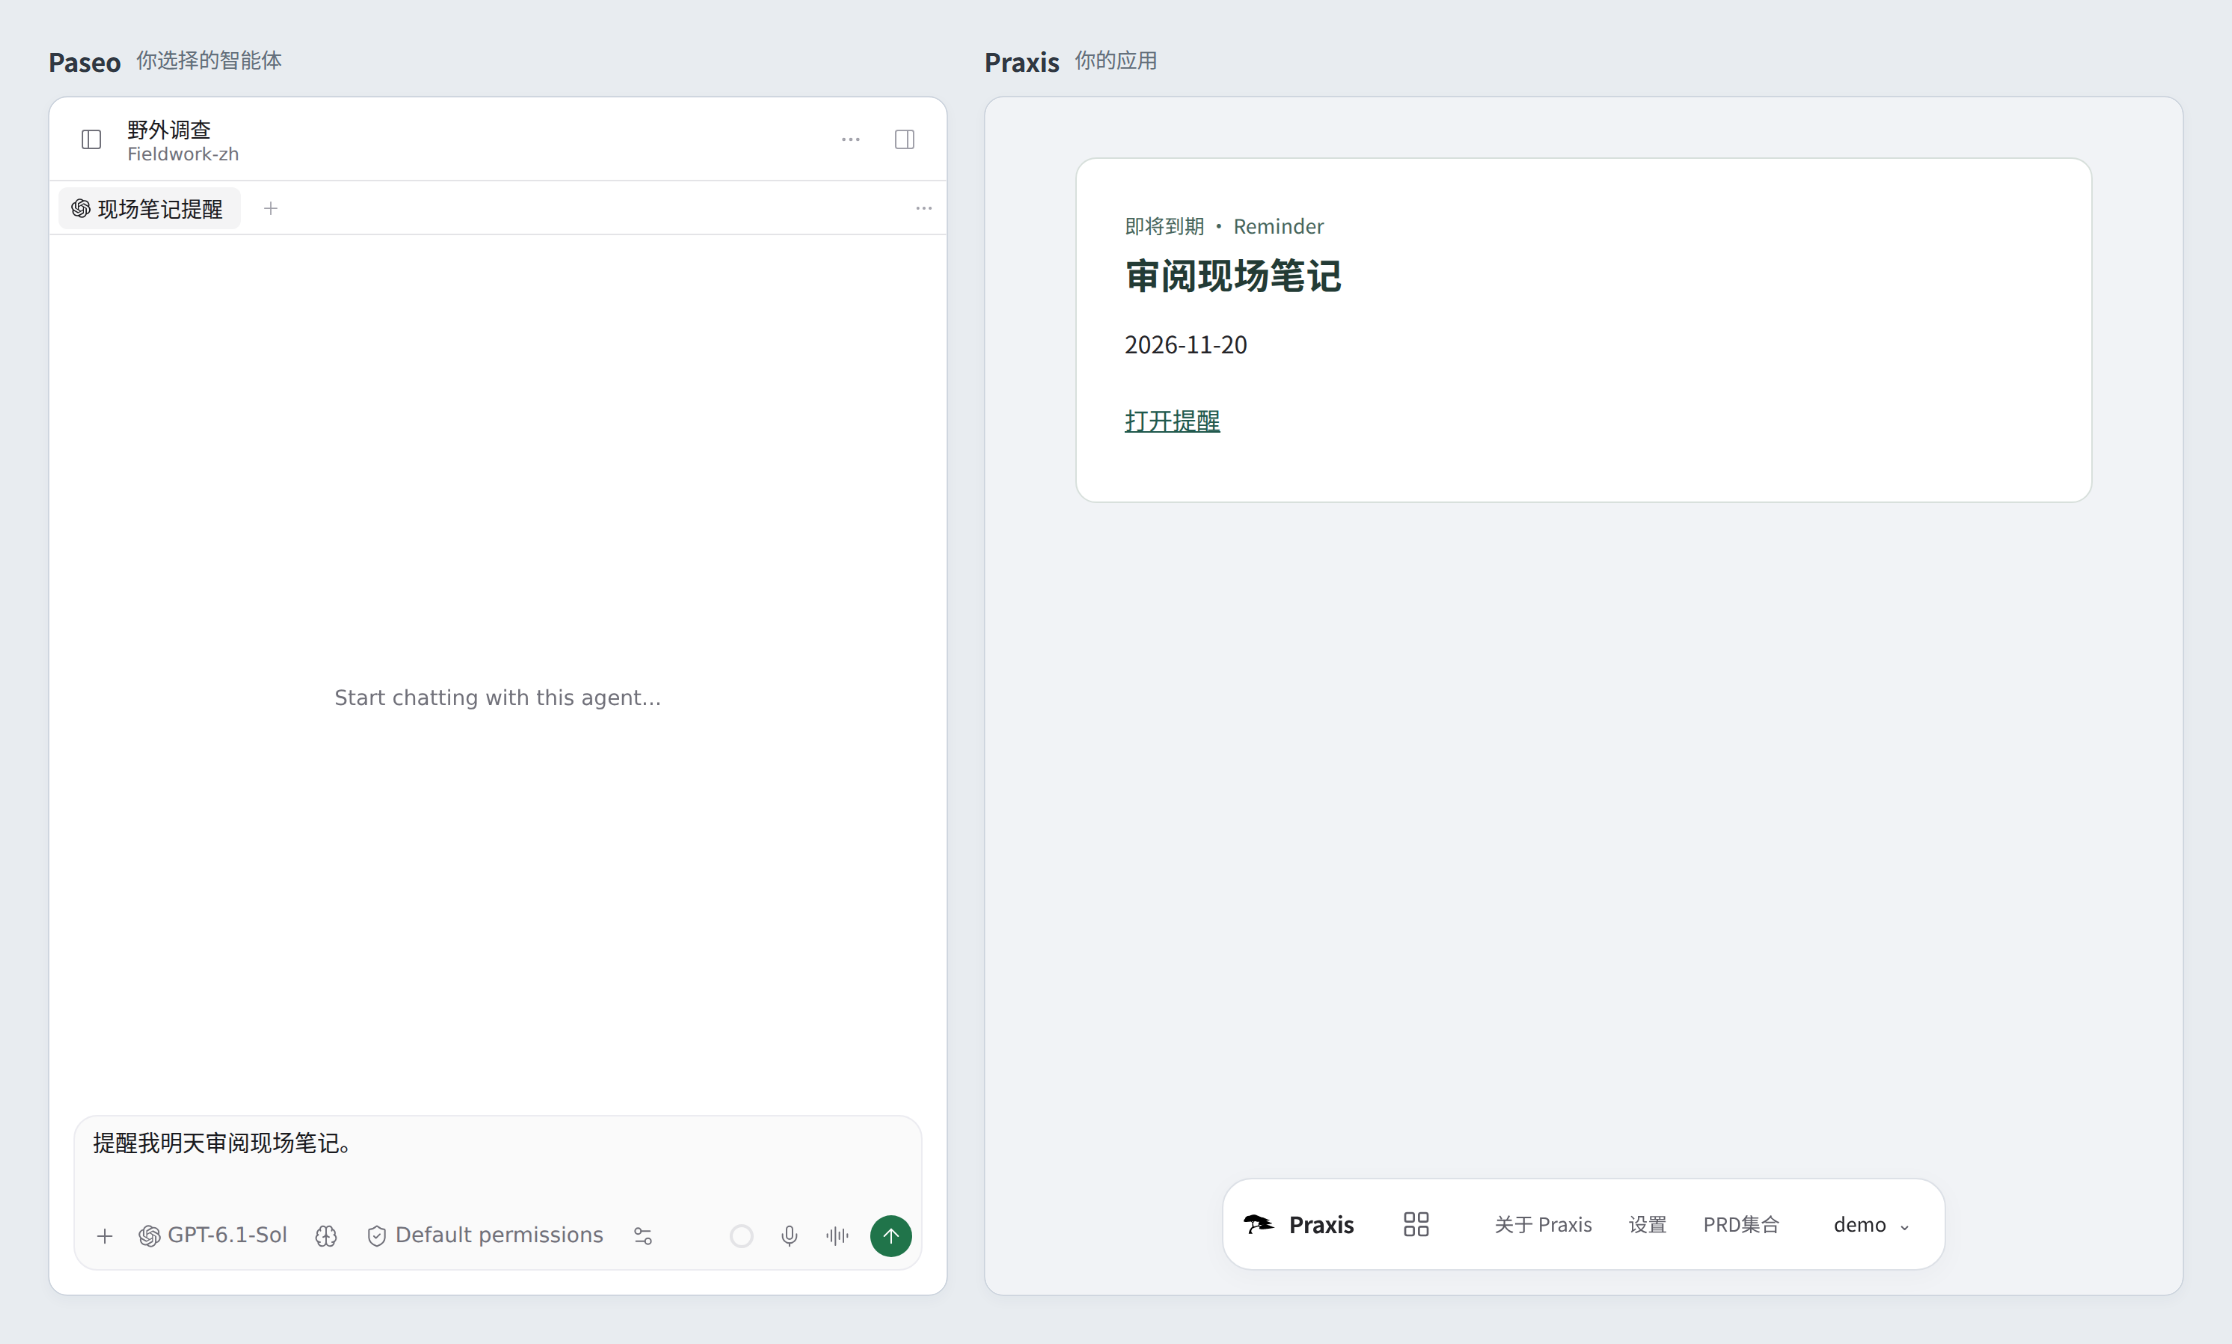
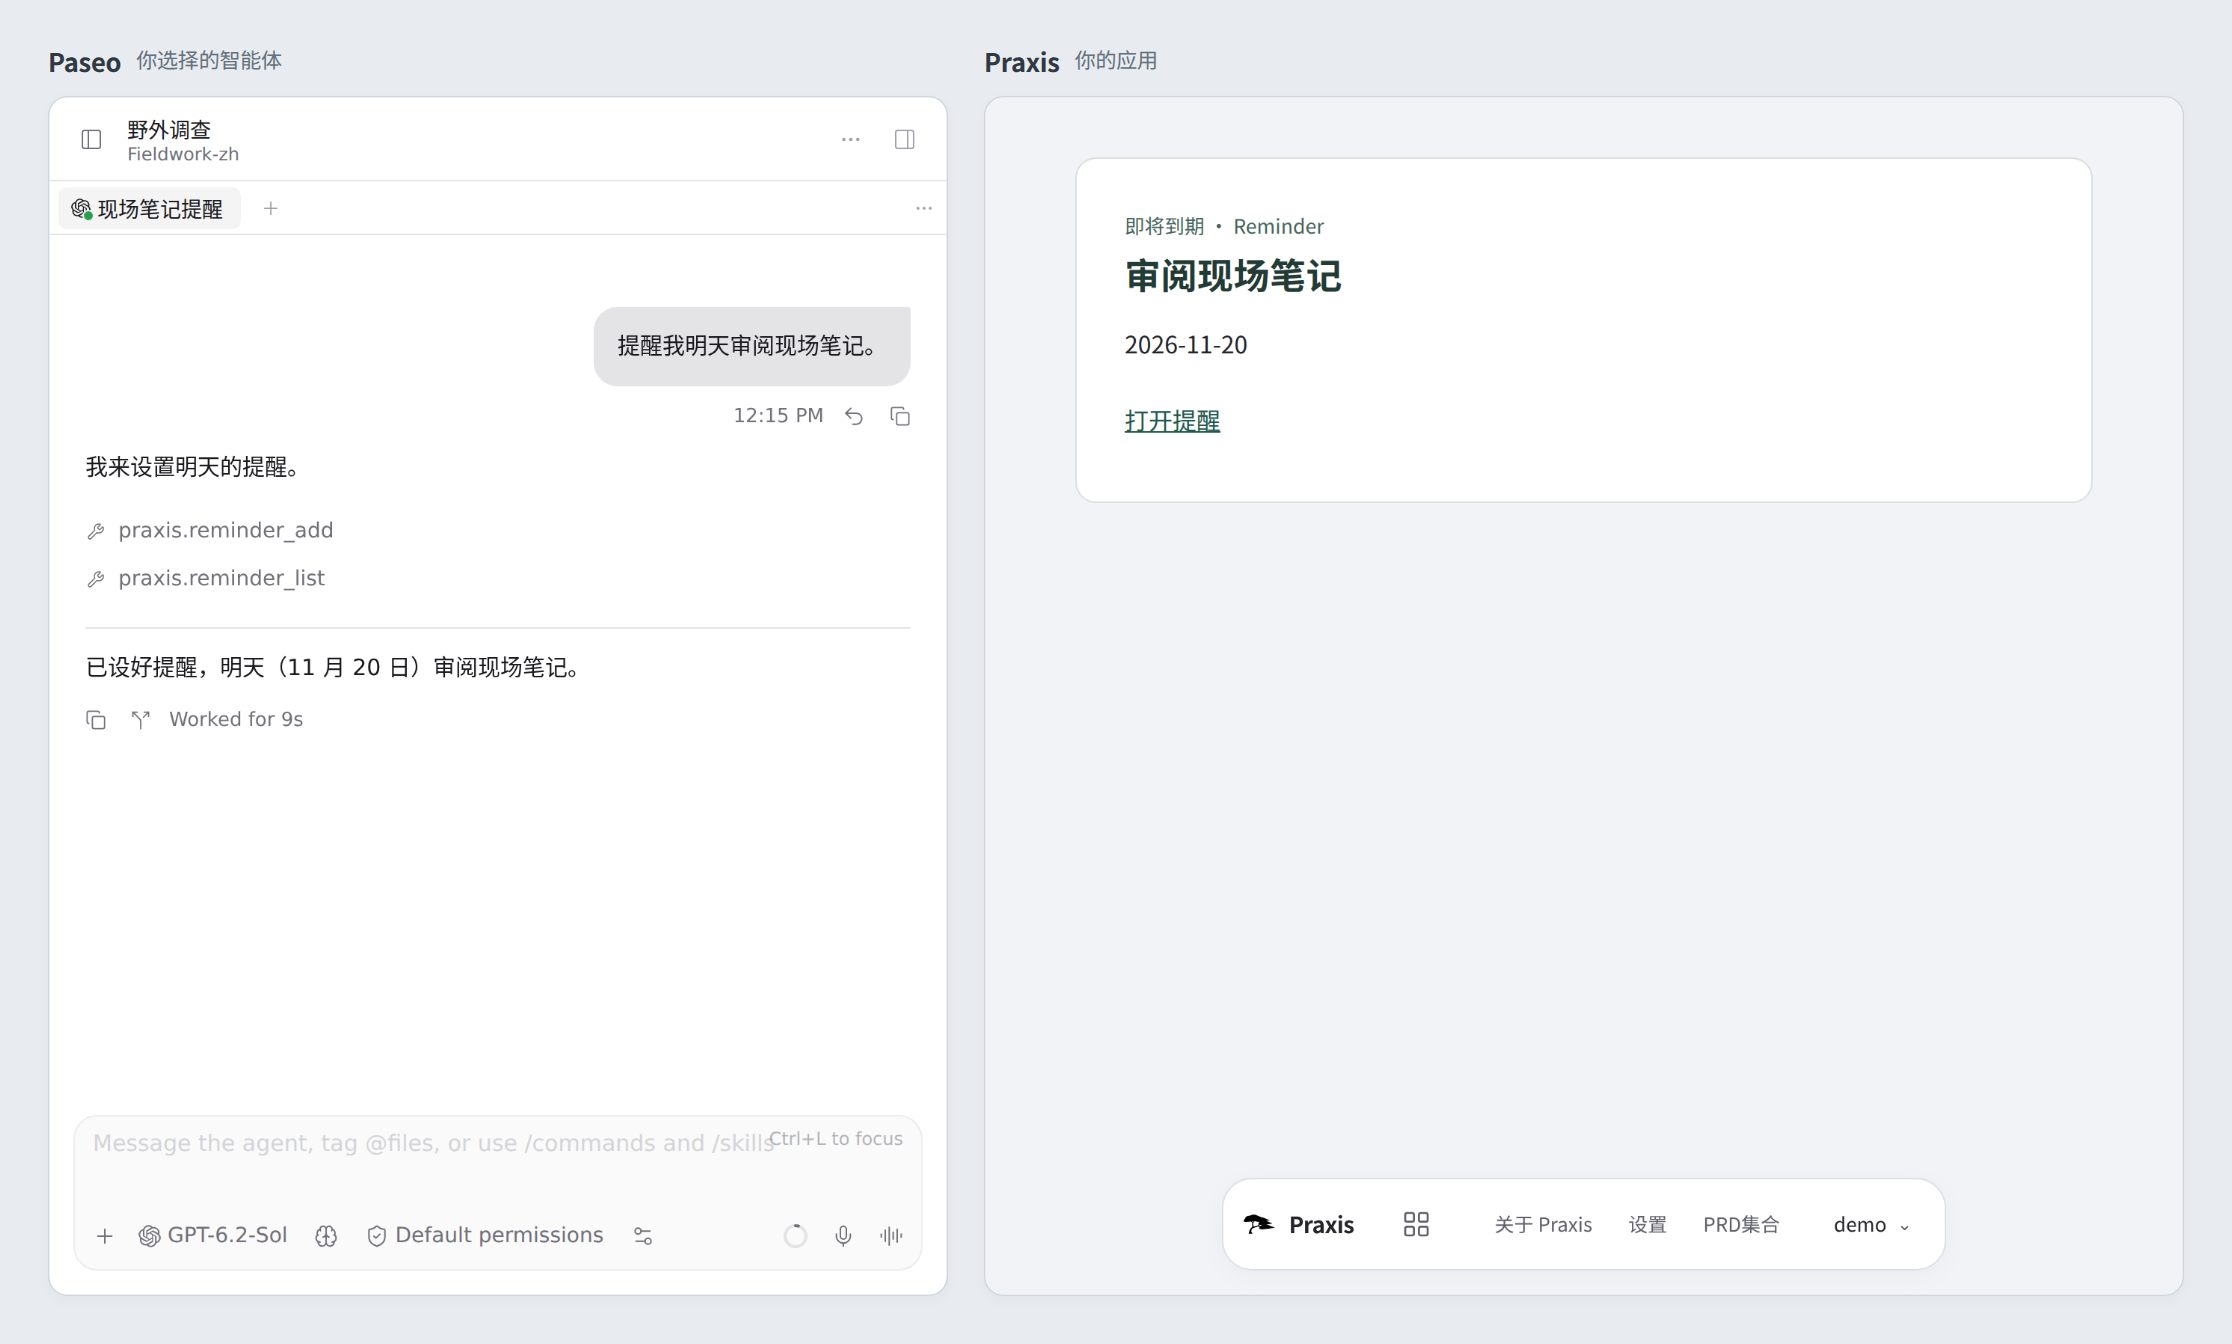
docs(readme): show the reminder prompt after it is sent
Capture actual Paseo sends, Reminder creation and readback, and cleared composers in both languages. Refresh image URLs so clients fetch the corrected animation.

diff --git a/README.md b/README.md
@@ -11,8 +11,8 @@ Praxis builds and polishes its built-in apps so people can read, watch or listen
 You can try the [hosted workbench](https://polaris.jianxiaoyitech.com/) before setting up your own instance.
 
 <picture>
-  <source media="(prefers-reduced-motion: reduce)" srcset="docs/images/workbench-en.png">
-  <img src="docs/images/workbench-en.gif" alt="Real Paseo input beside Praxis switching from Apps to a synthetic Reminder card">
+  <source media="(prefers-reduced-motion: reduce)" srcset="docs/images/workbench-en.png?v=2">
+  <img src="docs/images/workbench-en.gif?v=2" alt="Real Paseo conversation beside Praxis showing a synthetic Reminder card after the prompt is sent">
 </picture>
 
 ## Quickstart
